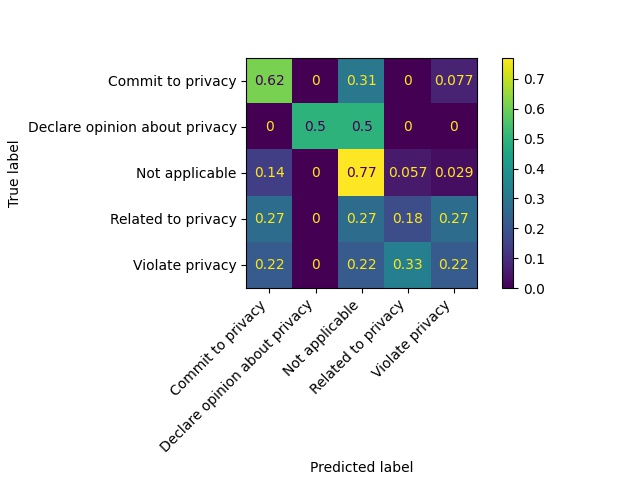
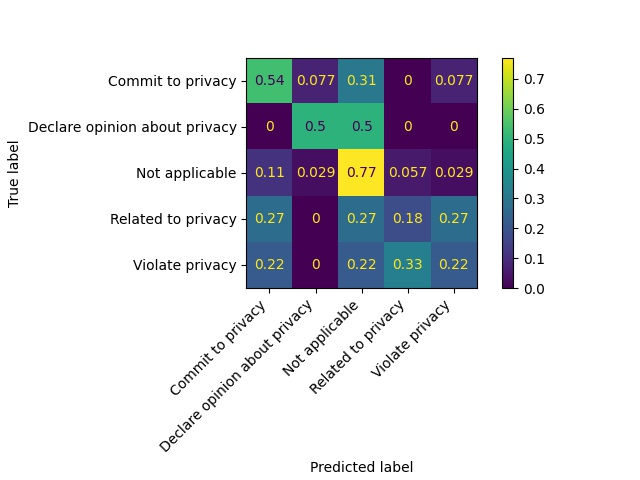
AI classifier configurations: initial + binary word representation + n_estimators 75

Changed region(s): [[0.375, 0.125, 0.5312, 0.2188], [0.4062, 0.3438, 0.5312, 0.375]]

diff --git a/AIclassifier.py b/AIclassifier.py
@@ -136,7 +136,7 @@ dev_labels_primary = create_labels_array(labels_dev)
 # CLASSIFIER
 
 # Configurations
-adaclassifier = AdaBoostClassifier(n_estimators=100, learning_rate=1) # provare 200, 300
+adaclassifier = AdaBoostClassifier(n_estimators=75, learning_rate=1) # provare 200, 300
 
 # FLAG - CHECK WHICH CONFIGURATIONS SHOULD BE HERE - checked
 
